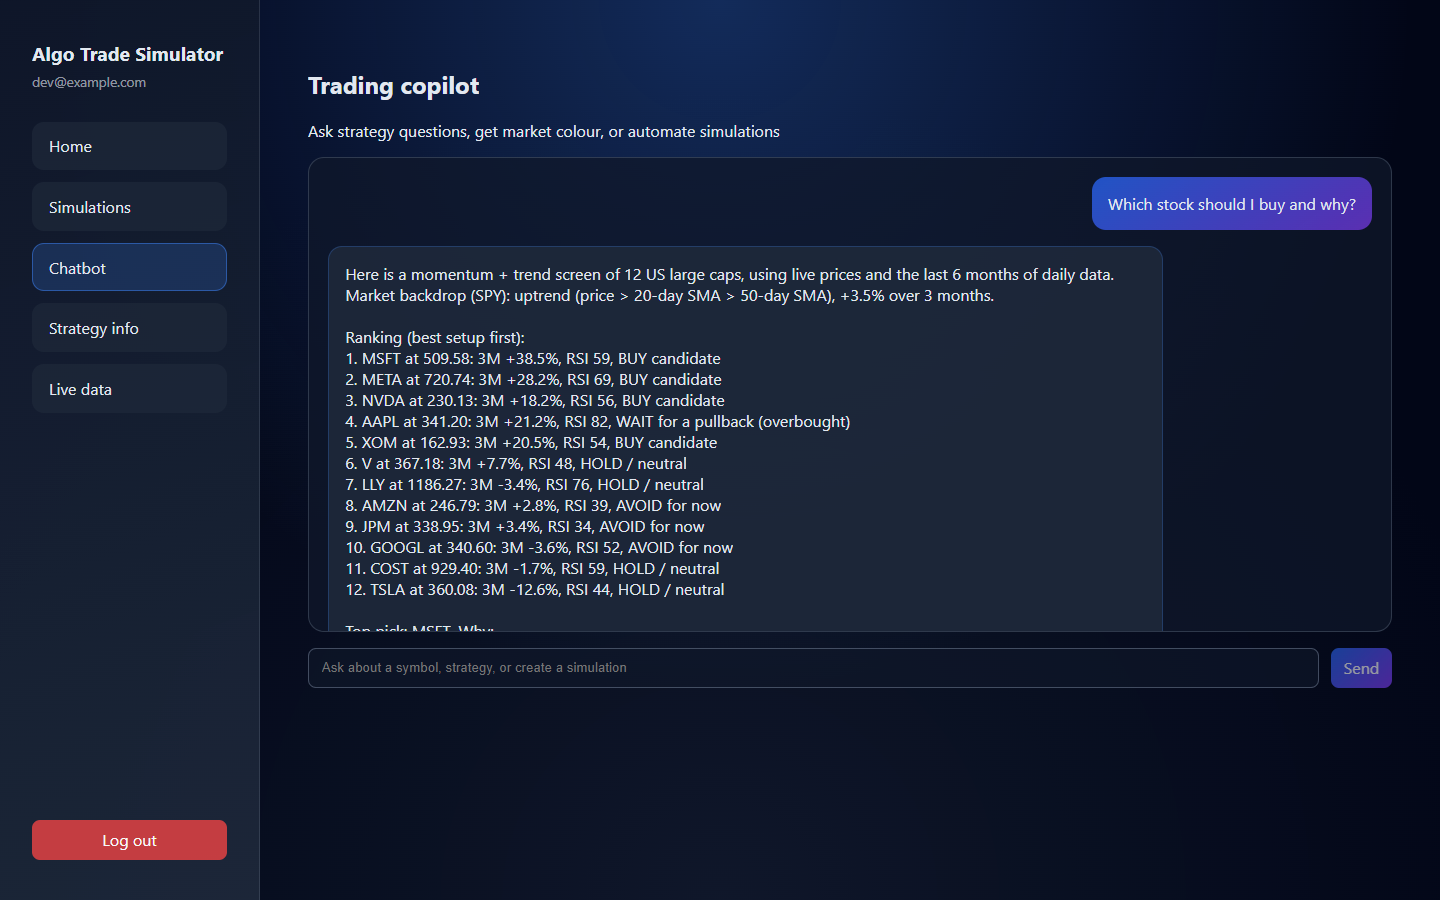
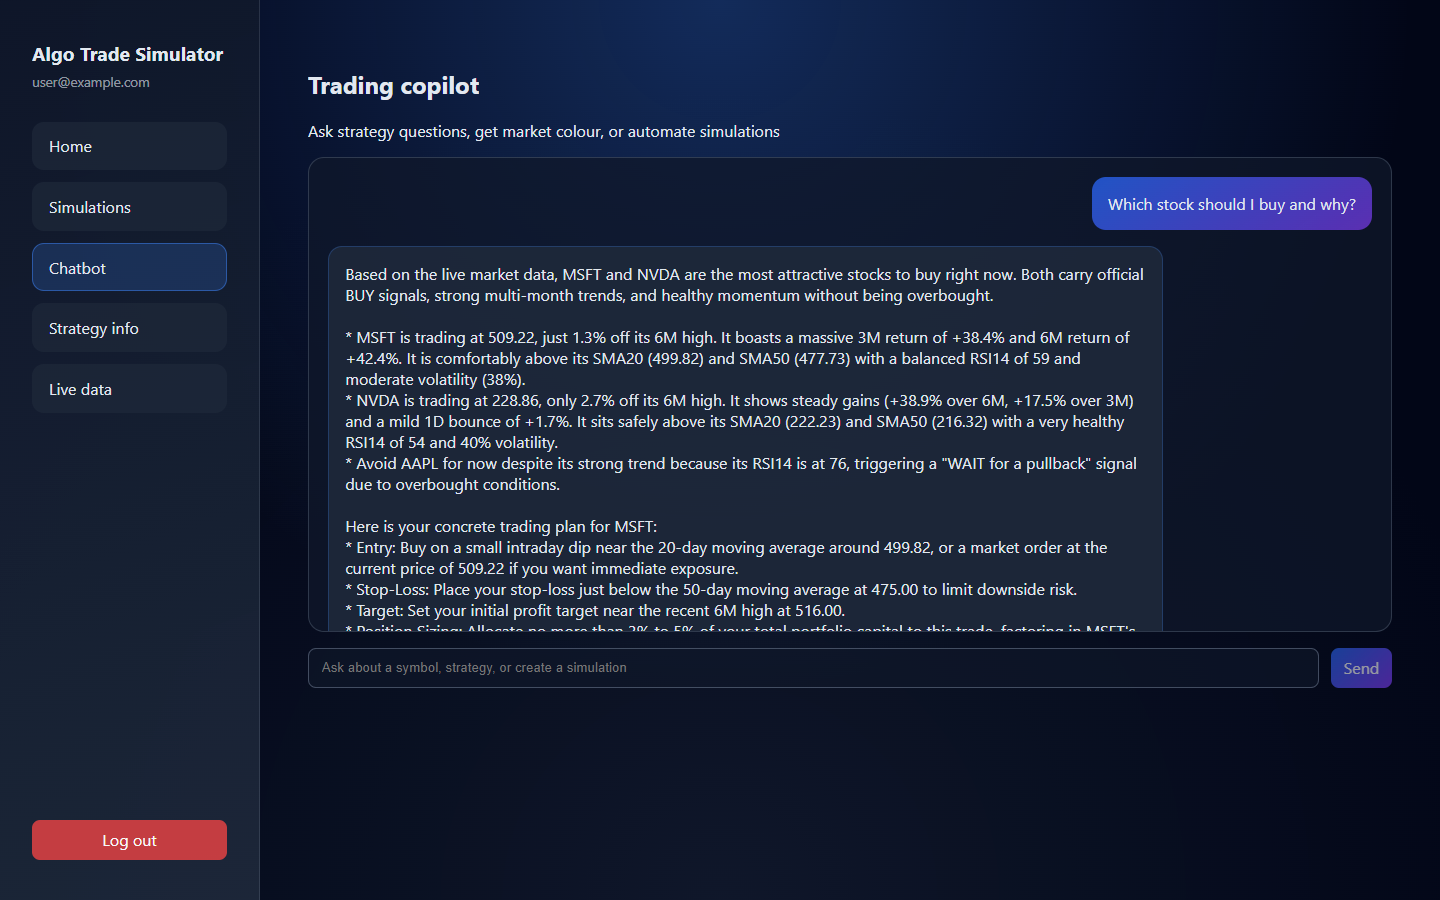
Show "User" instead of "Dev User" for the default login
Rename the auto-login account to User / user@example.com and refresh the
README screenshots.

Changed region(s): [[0.2188, 0.3733, 0.7812, 0.7156], [0.25, 0.28, 0.7812, 0.3422], [0.0312, 0.0622, 0.0938, 0.1244]]

diff --git a/backend/routes/auth.py b/backend/routes/auth.py
@@ -40,6 +40,6 @@ async def dev_auth_bypass(
 ) -> dict[str, Any]:
     if not settings.enable_dev_endpoints:
         raise HTTPException(status_code=status.HTTP_403_FORBIDDEN, detail="Dev endpoints are disabled")
-    email = (payload.email if payload and payload.email else "dev@example.com").lower()
-    name = payload.name if payload and payload.name else "Dev User"
+    email = (payload.email if payload and payload.email else "user@example.com").lower()
+    name = payload.name if payload and payload.name else "User"
     return await _session_response(store, await store.ensure_user(email, name))
